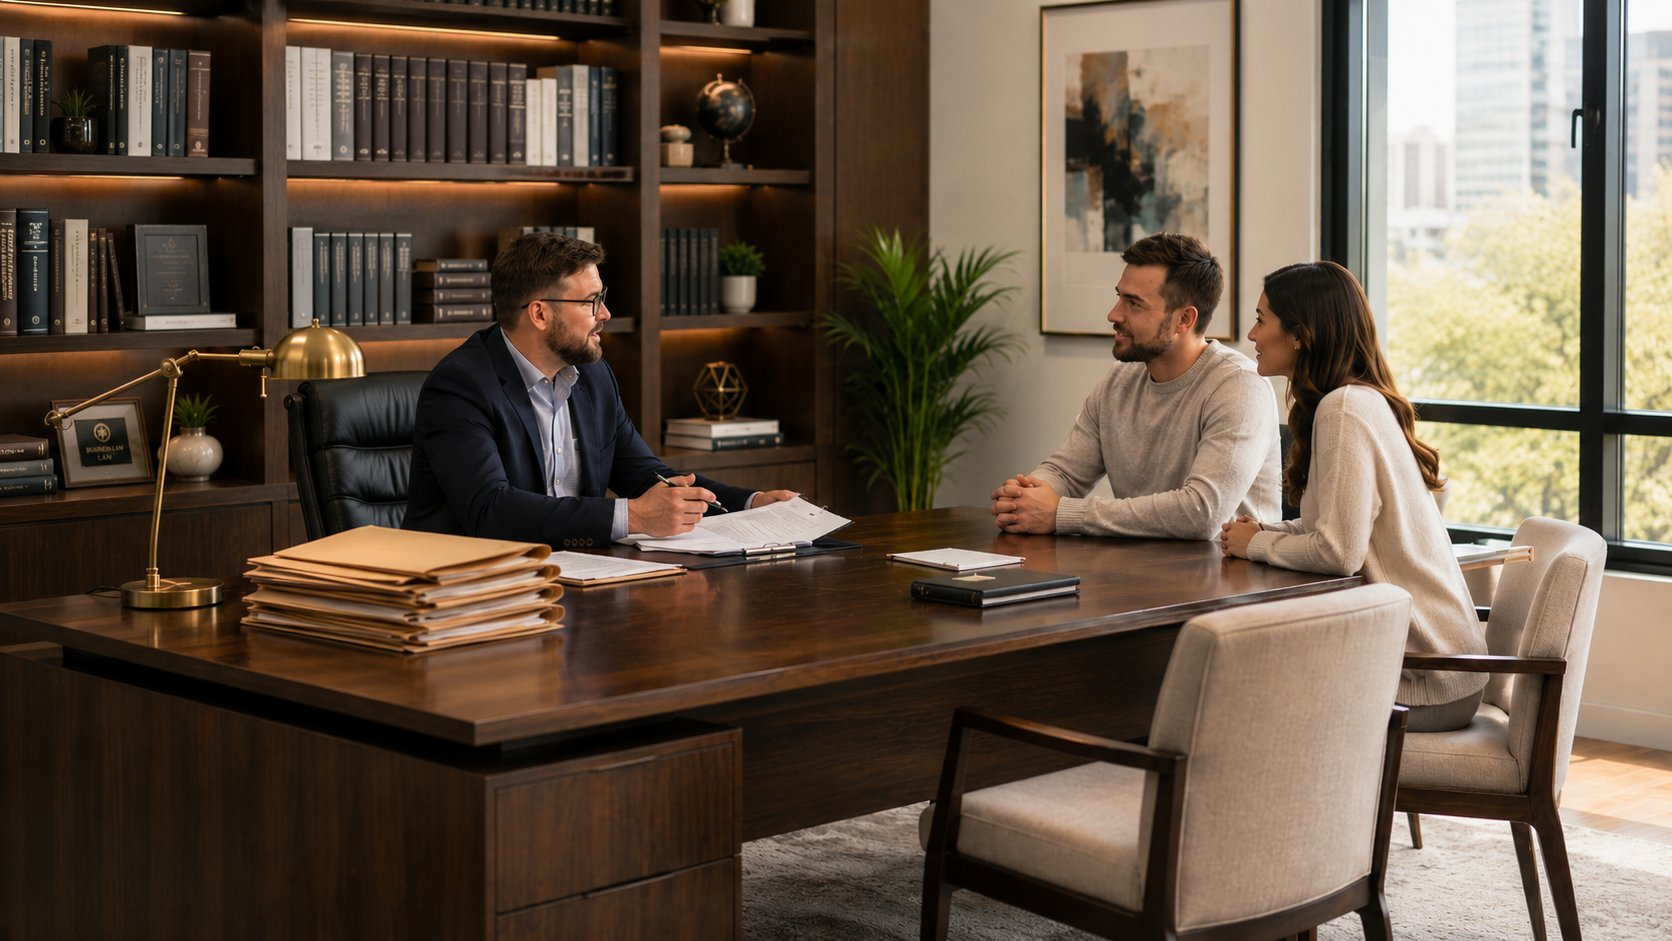
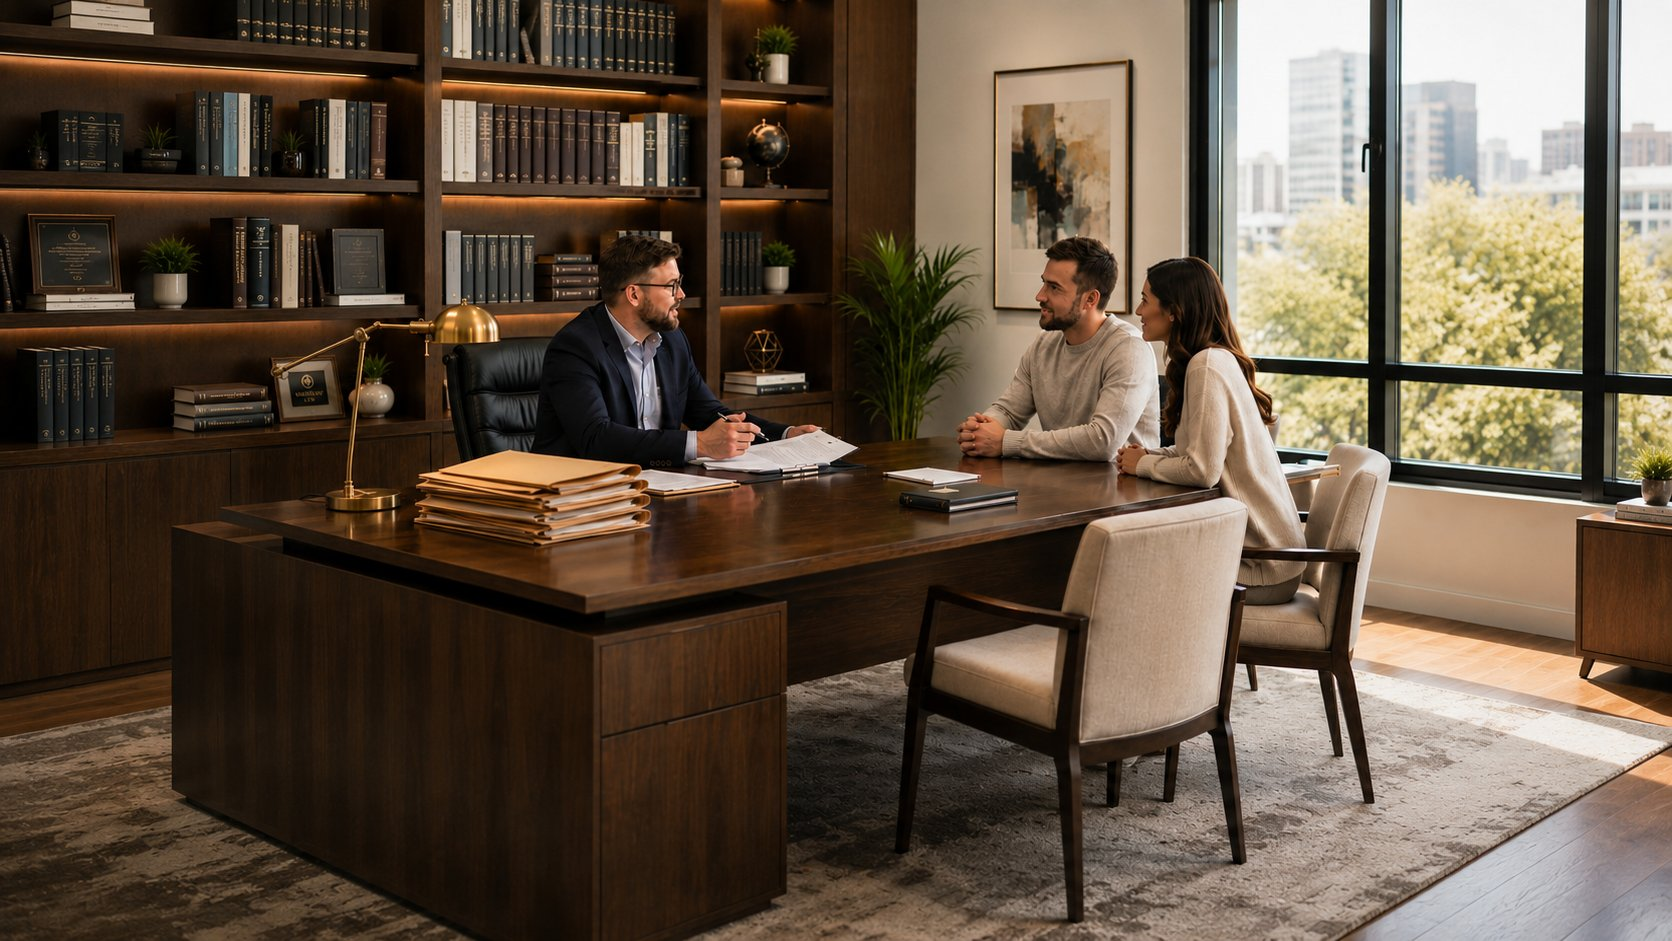
fotos grals

diff --git a/index.es.html b/index.es.html
@@ -1136,7 +1136,7 @@ function changeLogo(){
 <a class="nx-card" href="/nexacompanya/"><div class="nx-card-img" style="background-image:url('corporate_video/senior-women-giving-each-other-high-five.jpg');background-position:50% 42%"></div><div class="nx-card-grad"></div><div class="nx-card-cap"><div class="nx-card-lbl">Acompañamiento Personal a Personas Mayores</div><div class="nx-card-go">Descubrir →</div></div></a>
 <a class="nx-card" href="/nexgestio/"><div class="nx-card-img" style="background-image:url('images/img_10.jpg');background-position:50% 50%"></div><div class="nx-card-grad"></div><div class="nx-card-cap"><div class="nx-card-lbl">Acompañamiento Administrativo Vital</div><div class="nx-card-go">Descubrir →</div></div></a>
 <a class="nx-card" href="/nexgestio/mediacio-orientacio-social/index.es.html"><div class="nx-card-img" style="background-image:url('images/img_48.jpg');background-position:50% 40%"></div><div class="nx-card-grad"></div><div class="nx-card-cap"><div class="nx-card-lbl">Mediación Intergeneracional y Comunitaria</div><div class="nx-card-go">Descubrir →</div></div></a>
-<a class="nx-card" href="/nexgestio/mediacio-orientacio-social/index.es.html"><div class="nx-card-img" style="background-image:url('images/img_49.jpg');background-position:50% 45%"></div><div class="nx-card-grad"></div><div class="nx-card-cap"><div class="nx-card-lbl">Mediación y Or. Jurídica Social</div><div class="nx-card-go">Descubrir →</div></div></a>
+<a class="nx-card" href="/nexgestio/mediacio-orientacio-social/index.es.html"><div class="nx-card-img" style="background-image:url('images/img_49.jpg');background-position:50% 45%"></div><div class="nx-card-grad"></div><div class="nx-card-cap"><div class="nx-card-lbl">Orientación Jurídica Social</div><div class="nx-card-go">Descubrir →</div></div></a>
 <a class="nx-card" href="/entitats/acompanyament-gestio-entitats/index.es.html"><div class="nx-card-img" style="background-image:url('images/img_40.jpg');background-position:50% 50%"></div><div class="nx-card-grad"></div><div class="nx-card-cap"><div class="nx-card-lbl">Acompañamiento Gestión Operativa</div><div class="nx-card-go">Descubrir →</div></div></a>
 <a class="nx-card" href="/entitats/consultoria-social/"><div class="nx-card-img" style="background-image:url('images/img_43.jpg');background-position:50% 50%"></div><div class="nx-card-grad"></div><div class="nx-card-cap"><div class="nx-card-lbl">Consultoría Entidades Sociales</div><div class="nx-card-go">Descubrir →</div></div></a>
 <a class="nx-card" href="/consulta-cas-a-cas/"><div class="nx-card-img" style="background-image:url('images/img_11.jpg');background-position:50% 50%"></div><div class="nx-card-grad"></div><div class="nx-card-cap"><div class="nx-card-lbl">Consulta caso a caso</div><div class="nx-card-go">Descubrir →</div></div></a>

diff --git a/index.html b/index.html
@@ -1148,7 +1148,7 @@ function changeLogo(){
 <a class="nx-card" href="/nexacompanya/"><div class="nx-card-img" style="background-image:url('corporate_video/senior-women-giving-each-other-high-five.jpg');background-position:50% 42%"></div><div class="nx-card-grad"></div><div class="nx-card-cap"><div class="nx-card-lbl">Acompanyament Personal a Grans Persones</div><div class="nx-card-go">Descobrir →</div></div></a>
 <a class="nx-card" href="/nexgestio/"><div class="nx-card-img" style="background-image:url('images/img_10.jpg');background-position:50% 50%"></div><div class="nx-card-grad"></div><div class="nx-card-cap"><div class="nx-card-lbl">Acompanyament Administratiu Vital</div><div class="nx-card-go">Descobrir →</div></div></a>
 <a class="nx-card" href="/nexgestio/mediacio-orientacio-social/"><div class="nx-card-img" style="background-image:url('images/img_48.jpg');background-position:50% 40%"></div><div class="nx-card-grad"></div><div class="nx-card-cap"><div class="nx-card-lbl">Mediació Intergeneracional i Comunitària</div><div class="nx-card-go">Descobrir →</div></div></a>
-<a class="nx-card" href="/nexgestio/mediacio-orientacio-social/"><div class="nx-card-img" style="background-image:url('images/img_49.jpg');background-position:50% 45%"></div><div class="nx-card-grad"></div><div class="nx-card-cap"><div class="nx-card-lbl">Mediació i Or. Jurídica Social</div><div class="nx-card-go">Descobrir →</div></div></a>
+<a class="nx-card" href="/nexgestio/mediacio-orientacio-social/"><div class="nx-card-img" style="background-image:url('images/img_49.jpg');background-position:50% 45%"></div><div class="nx-card-grad"></div><div class="nx-card-cap"><div class="nx-card-lbl">Orientació Jurídica Social</div><div class="nx-card-go">Descobrir →</div></div></a>
 <a class="nx-card" href="/entitats/acompanyament-gestio-entitats/"><div class="nx-card-img" style="background-image:url('images/img_40.jpg');background-position:50% 50%"></div><div class="nx-card-grad"></div><div class="nx-card-cap"><div class="nx-card-lbl">Acompanyament Gestió Operativa</div><div class="nx-card-go">Descobrir →</div></div></a>
 <a class="nx-card" href="/entitats/consultoria-social/"><div class="nx-card-img" style="background-image:url('images/img_43.jpg');background-position:50% 50%"></div><div class="nx-card-grad"></div><div class="nx-card-cap"><div class="nx-card-lbl">Consultoria Entitats Socials</div><div class="nx-card-go">Descobrir →</div></div></a>
 <a class="nx-card" href="/consulta-cas-a-cas/"><div class="nx-card-img" style="background-image:url('images/img_11.jpg');background-position:50% 50%"></div><div class="nx-card-grad"></div><div class="nx-card-cap"><div class="nx-card-lbl">Consulta cas a cas</div><div class="nx-card-go">Descobrir →</div></div></a>

diff --git a/nexgestio/acompanyament-administratiu-vital/index.es.html b/nexgestio/acompanyament-administratiu-vital/index.es.html
@@ -177,7 +177,7 @@
 <main class="main">
 
 <div class="page-header">
-  <div class="page-header-bg" style="background-image:url('../../images/img_50.jpg')"></div>
+  <div class="page-header-bg" style="background-image:url('../../images/img_19.jpg')"></div>
   <span class="page-header-tag">NexGestió · Trámites sociales</span>
   <h1>Acompañamiento <em>Administrativo</em> Vital</h1>
   <p>Acompañamos a personas y familias en la gestión de trámites sociales y administrativos —desde la solicitud hasta la resolución— con trazabilidad total y transparencia en los costes.</p>
@@ -213,7 +213,7 @@
 <!-- Subservicio 1: Trámites sociales y AAPP -->
 <div class="srv-block">
   <div class="srv-block-title"><em style="font-style:italic;color:#3d8a62;">Trámites sociales</em> y ayudas AAPP</div>
-  <div class="srv-block-banner" style="background-image:url('../../images/img_50.jpg');background-position:center 55%;"></div>
+  <div class="srv-block-banner" style="background-image:url('../../images/img_50.jpg');background-position:center 20%;"></div>
   <p class="srv-block-desc">Gestionamos los trámites sociales habituales y los más complejos: IMV, RGC, dependencia, vivienda, arraigo... con lenguaje claro, sin burocracia opaca y con un acompañamiento socioemocional ante las decisiones importantes.</p>
   <div class="srv-cols">
     <div class="srv-col-box">
@@ -242,7 +242,7 @@
 <!-- Subservicio 2: Detección proactiva de ayudas -->
 <div class="srv-block">
   <div class="srv-block-title"><em style="font-style:italic;color:#3d8a62;">Detección</em> proactiva de ayudas vigentes</div>
-  <div class="srv-block-banner" style="background-image:url('../../images/img_51.jpg');background-position:center 40%;"></div>
+  <div class="srv-block-banner" style="background-image:url('../../images/img_51.jpg');background-position:center 65%;"></div>
   <p class="srv-block-desc">Estamos al día de todas las convocatorias sociales abiertas y detectamos proactivamente si puedes acogerte a alguna ayuda que no conocías. Si es tu caso, lo gestionamos en tu nombre de principio a fin.</p>
   <div class="srv-cols">
     <div class="srv-col-box">

diff --git a/nexgestio/acompanyament-administratiu-vital/index.html b/nexgestio/acompanyament-administratiu-vital/index.html
@@ -189,7 +189,7 @@
 <main class="main">
 
 <div class="page-header">
-  <div class="page-header-bg" style="background-image:url('../../images/img_50.jpg')"></div>
+  <div class="page-header-bg" style="background-image:url('../../images/img_19.jpg')"></div>
   <span class="page-header-tag">NexGestió · Tràmits socials</span>
   <h1>Acompanyament <em>Administratiu</em> Vital</h1>
   <p>Acompanyem persones i famílies en la gestió de tràmits socials i administratius —des de la sol·licitud fins a la resolució— amb traçabilitat total i transparència en els costos.</p>
@@ -225,7 +225,7 @@
 <!-- Subservei 1: Tràmits socials i AAPP -->
 <div class="srv-block">
   <div class="srv-block-title"><em style="font-style:italic;color:#3d8a62;">Tràmits socials</em> i ajudes AAPP</div>
-  <div class="srv-block-banner" style="background-image:url('../../images/img_50.jpg');background-position:center 55%;"></div>
+  <div class="srv-block-banner" style="background-image:url('../../images/img_50.jpg');background-position:center 20%;"></div>
   <p class="srv-block-desc">Gestionem els tràmits socials habituals i els més complexos: IMV, RGC, dependència, habitatge, arrelament... amb llenguatge clar, sense burocràcia opaca i amb un acompanyament socioemocional davant les decisions importants.</p>
   <div class="srv-cols">
     <div class="srv-col-box">
@@ -254,7 +254,7 @@
 <!-- Subservei 2: Detecció proactiva d'ajudes -->
 <div class="srv-block">
   <div class="srv-block-title"><em style="font-style:italic;color:#3d8a62;">Detecció</em> proactiva d'ajuts vigents</div>
-  <div class="srv-block-banner" style="background-image:url('../../images/img_51.jpg');background-position:center 40%;"></div>
+  <div class="srv-block-banner" style="background-image:url('../../images/img_51.jpg');background-position:center 65%;"></div>
   <p class="srv-block-desc">Estem al dia de totes les convocatòries socials obertes i detectem proactivament si pots acollir-te a alguna ajuda que no coneixies. Si és el teu cas, ho gestionem en el teu nom de principi a fi.</p>
   <div class="srv-cols">
     <div class="srv-col-box">

diff --git a/nexgestio/mediacio-orientacio-social/index.es.html b/nexgestio/mediacio-orientacio-social/index.es.html
@@ -177,7 +177,7 @@
 <main class="main">
 
 <div class="page-header">
-  <div class="page-header-bg" style="background-image:url('../../images/img_48.jpg')"></div>
+  <div class="page-header-bg" style="background-image:url('../../images/img_20.jpg')"></div>
   <span class="page-header-tag">NexGestió · Mediación y Orientación Jurídica</span>
   <h1><em>Mediación</em> y Orientación Jurídica Social</h1>
   <p>Cuando surgen conflictos o situaciones complejas, la mediación y la orientación jurídica social abren vías de resolución consensuada —evitando procesos largos y desgastantes— para que conozcas tus derechos y encuentres la mejor salida.</p>

diff --git a/nexgestio/mediacio-orientacio-social/index.html b/nexgestio/mediacio-orientacio-social/index.html
@@ -189,7 +189,7 @@
 <main class="main">
 
 <div class="page-header">
-  <div class="page-header-bg" style="background-image:url('../../images/img_48.jpg')"></div>
+  <div class="page-header-bg" style="background-image:url('../../images/img_20.jpg')"></div>
   <span class="page-header-tag">NexGestió · Mediació i Orientació Jurídica</span>
   <h1><em>Mediació</em> i Orientació Jurídica Social</h1>
   <p>Quan sorgeixen conflictes o situacions complexes, la mediació i l'orientació jurídica social obren vies de resolució consensuada —evitant processos llargs i desgastants— perquè coneguis els teus drets i trobis la millor sortida.</p>
